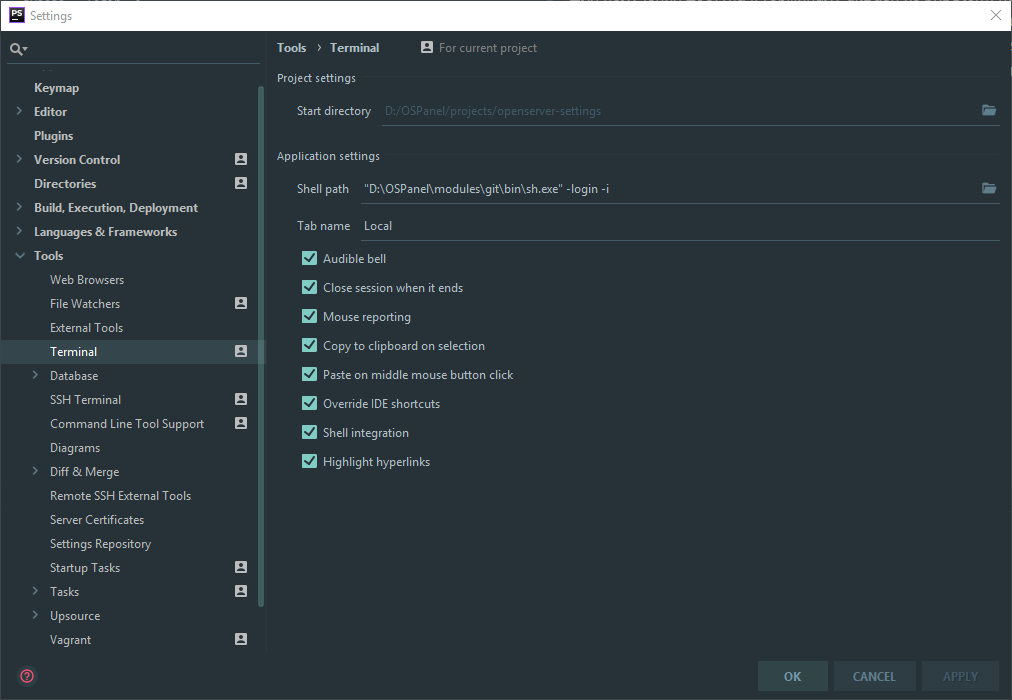
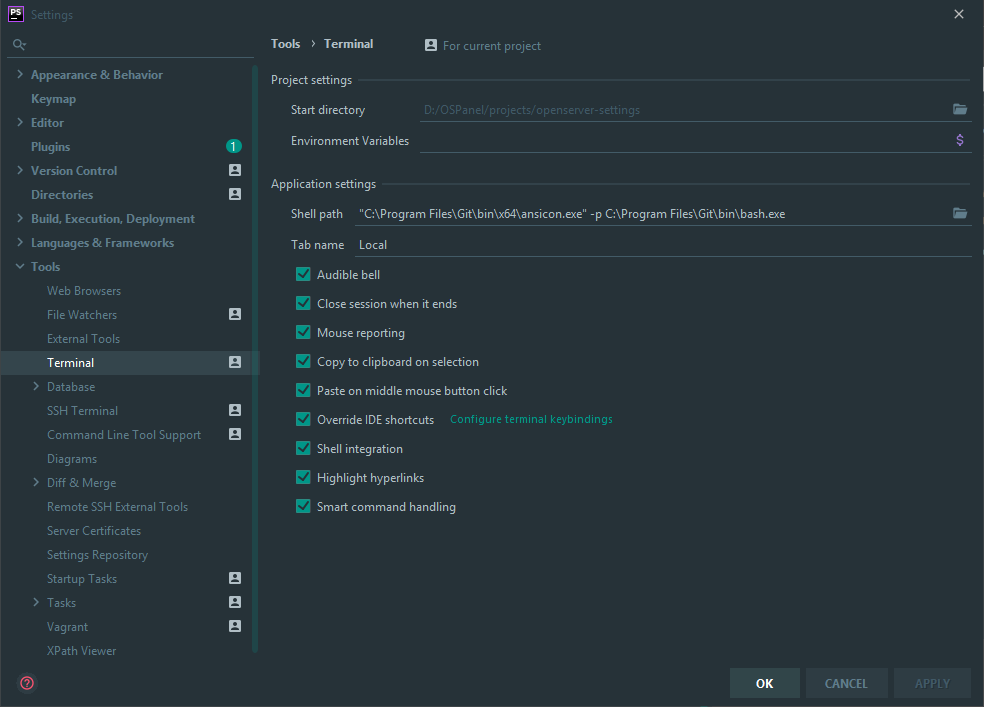
add ansi color console phpstorm

diff --git a/pages/PHPSTORM_GIT_BASH.md b/pages/PHPSTORM_GIT_BASH.md
@@ -1,4 +1,8 @@
 # 13. Дружим phpStorm и Git Bash
-Для получения доступа к терминалу gitBash из phpStorm необходимо прописать "Shell path" r gitBash-у. Прописать можно путь как к установленому в Openserver-e "D:\OSPanel\modules\git\bin\sh.exe", так и к обычному "C:\Program Files\Git\bin\sh.exe" и добавить параметры вызова "-login -i".
-
-![Установка Shell path r GitBash-у](../img/phpstorm-git-bash.png "Установка Shell path r GitBash-у") 
+Для получения доступа к терминалу gitBash из phpStorm(или любой другой IDE из семейства jetbrains)  необходимо прописать "Shell path" к gitBash-у. Прописать можно путь как к установленому в Openserver-e "D:\OSPanel\modules\git\bin\bash.exe", так и к обычному "C:\Program Files\Git\bin\bash.exe".
+Для поддержки ansi цветов (?[37;41m) необходимо скачать [ansicon](https://github.com/adoxa/ansicon/releases).
+Далее открываем архив ansi...-bin.zip и переносим папку x64 в "C:\Program Files\Git\bin\" (путь не важен, можно выбрать любую другую папку). После этого меняем "Shell path" на
+```bash
+"C:\Program Files\Git\bin\x64\ansicon.exe" -p C:\Program Files\Git\bin\bash.exe
+```
+![Установка Shell path к GitBash-у](../img/phpstorm-git-bash.png "Установка Shell path к GitBash-у") 
